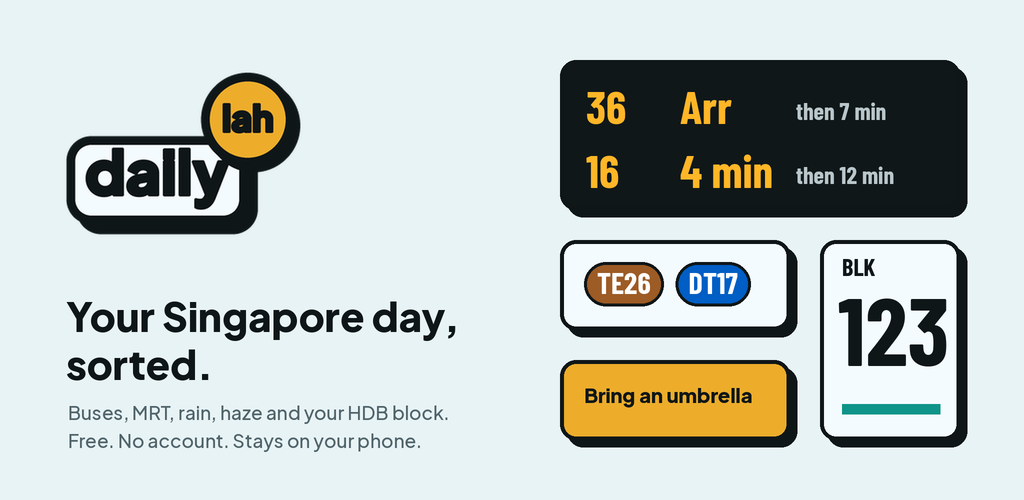
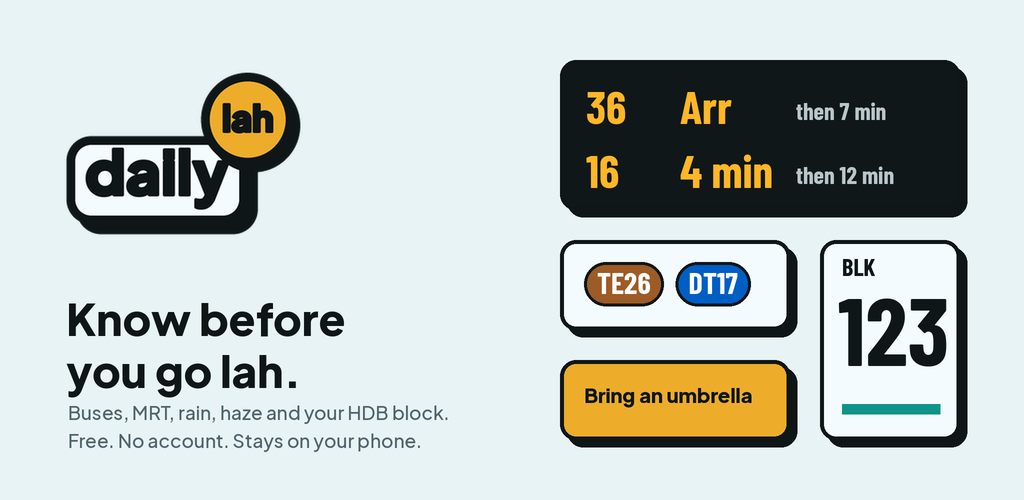
Feature graphic tagline: Know before you go lah.
Claude-Session: https://claude.ai/code/session_01QEj35UtFj3qRbUZsAT2WLz

Changed region(s): [[0.0625, 0.6, 0.4375, 0.81]]

diff --git a/scripts/make_feature_graphic.py b/scripts/make_feature_graphic.py
@@ -63,8 +63,8 @@ def feature():
     mark = mark.crop(mark.getbbox())
     mark = mark.resize((int(mark.width * 0.9 * S), int(mark.height * 0.9 * S)), Image.LANCZOS)
     im.paste(mark, (64 * S, 70 * S), mark)
-    text(d, (66, 290), "Your Singapore day,", jak(40), INK)
-    text(d, (66, 338), "sorted.", jak(40), INK)
+    text(d, (66, 290), "Know before", jak(44), INK)
+    text(d, (66, 342), "you go lah.", jak(44), INK)
     text(d, (68, 400), "Buses, MRT, rain, haze and your HDB block.", jak(19, 500), (80, 100, 106))
     text(d, (68, 428), "Free. No account. Stays on your phone.", jak(19, 500), (80, 100, 106))
 
